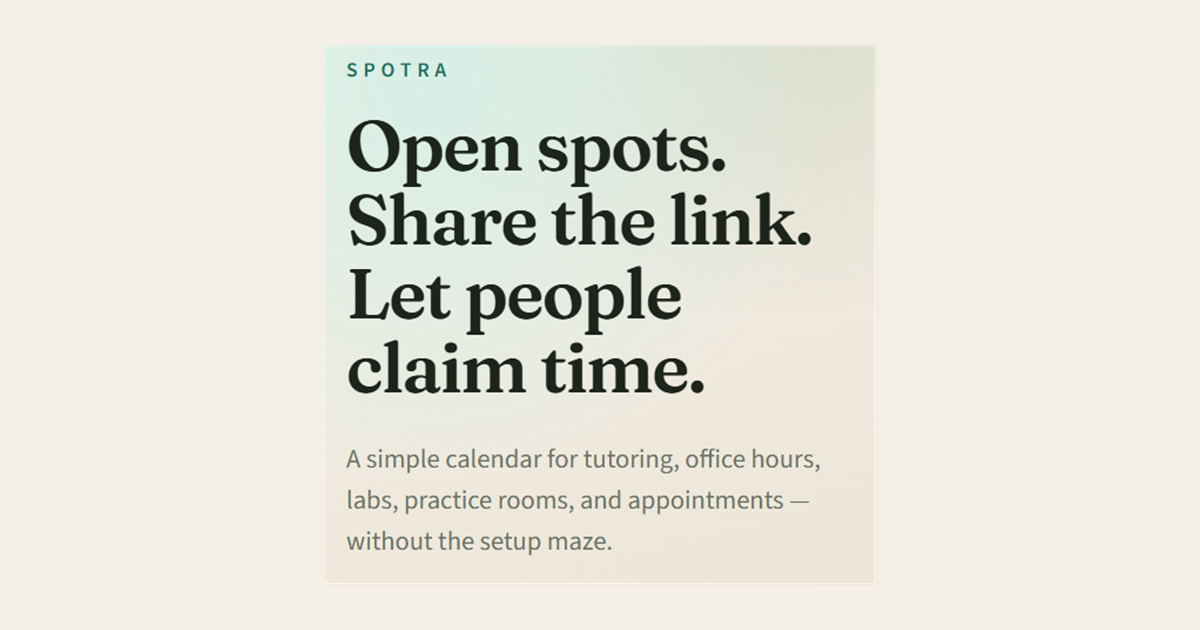
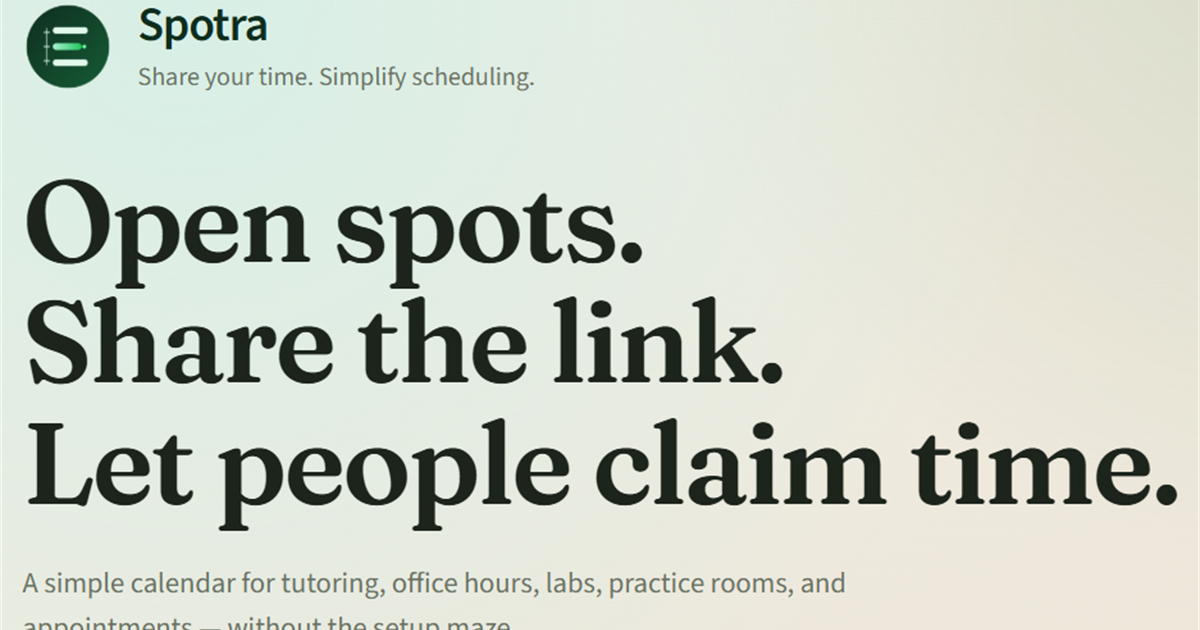
Add admin role changes and refresh link preview art.
Let admins promote or demote members with a last-admin guard, and replace the padded OG image with a properly sized landing preview.

diff --git a/features/members/members-table.tsx b/features/members/members-table.tsx
@@ -5,9 +5,9 @@ import { format } from "date-fns";
 import { toast } from "sonner";
 import { Avatar, AvatarFallback, AvatarImage } from "@/components/ui/avatar";
 import { Button } from "@/components/ui/button";
-import { removeMember } from "@/features/members/actions";
+import { removeMember, setMemberRole } from "@/features/members/actions";
 import { useMembers } from "@/hooks/use-workspace-data";
-import type { Account, WorkspaceMember } from "@/types";
+import type { Account, WorkspaceMember, WorkspaceRole } from "@/types";
 
 export function MembersTable({
   workspaceId,
@@ -24,6 +24,8 @@ export function MembersTable({
     return <p className="text-[var(--muted)]">Loading members…</p>;
   }
 
+  const adminCount = members.filter((m) => m.role === "admin").length;
+
   async function onRemove(member: WorkspaceMember & { account: Account }) {
     const result = await removeMember({
       workspaceId,
@@ -37,10 +39,90 @@ export function MembersTable({
     refetch();
   }
 
+  async function onSetRole(
+    member: WorkspaceMember & { account: Account },
+    role: WorkspaceRole,
+  ) {
+    const result = await setMemberRole({
+      workspaceId,
+      accountId: member.account_id,
+      role,
+    });
+    if (!result.ok) {
+      toast.error(result.error);
+      return;
+    }
+    toast.success(
+      role === "admin" ? "Member is now an admin" : "Member is now a participant",
+    );
+    refetch();
+  }
+
   function canRemove(member: WorkspaceMember) {
-    // Admins manage participants (and other admins). Self-removal is via
-    // Leave on /workspaces or Delete workspace — never Remove on this page.
+    // Self-removal is via Leave on /workspaces or Delete workspace.
     return member.account_id !== currentAccountId;
+  }
+
+  function canPromote(member: WorkspaceMember) {
+    return member.role === "participant";
+  }
+
+  function canDemote(member: WorkspaceMember) {
+    // Allow demoting other admins, and yourself only when another admin exists.
+    if (member.role !== "admin") return false;
+    if (member.account_id === currentAccountId) return adminCount > 1;
+    return true;
+  }
+
+  function ActionButtons({
+    member,
+    stretch,
+  }: {
+    member: WorkspaceMember & { account: Account };
+    stretch?: boolean;
+  }) {
+    const flex = stretch ? "flex-1" : undefined;
+    return (
+      <>
+        <Button size="sm" variant="secondary" asChild className={flex}>
+          <Link
+            href={`/workspace/${workspaceSlug}/users/${member.account_id}/history`}
+          >
+            History
+          </Link>
+        </Button>
+        {canPromote(member) && (
+          <Button
+            size="sm"
+            variant="outline"
+            className={flex}
+            onClick={() => onSetRole(member, "admin")}
+          >
+            Make admin
+          </Button>
+        )}
+        {canDemote(member) && (
+          <Button
+            size="sm"
+            variant="outline"
+            className={flex}
+            onClick={() => onSetRole(member, "participant")}
+          >
+            Make participant
+          </Button>
+        )}
+        {canRemove(member) && (
+          <Button
+            size="sm"
+            variant="outline"
+            className={flex}
+            onClick={() => onRemove(member)}
+          >
+            Remove
+          </Button>
+        )}
+      </>
+    );
   }
 
   return (
@@ -62,6 +144,7 @@ export function MembersTable({
               <div className="min-w-0 flex-1">
                 <p className="truncate font-medium">
                   {member.account.display_name}
+                  {member.account_id === currentAccountId ? " (you)" : ""}
                 </p>
                 <p className="truncate text-xs text-[var(--muted)]">
                   {member.account.email}
@@ -73,23 +156,7 @@ export function MembersTable({
               </div>
             </div>
             <div className="mt-4 flex flex-wrap gap-2">
-              <Button size="sm" variant="secondary" asChild className="flex-1">
-                <Link
-                  href={`/workspace/${workspaceSlug}/users/${member.account_id}/history`}
-                >
-                  History
-                </Link>
-              </Button>
-              {canRemove(member) && (
-                <Button
-                  size="sm"
-                  variant="outline"
-                  className="flex-1"
-                  onClick={() => onRemove(member)}
-                >
-                  Remove
-                </Button>
-              )}
+              <ActionButtons member={member} stretch />
             </div>
           </li>
         ))}
@@ -125,6 +192,7 @@ export function MembersTable({
                     <span>
                       <span className="block font-medium">
                         {member.account.display_name}
+                        {member.account_id === currentAccountId ? " (you)" : ""}
                       </span>
                       <span className="block text-xs text-[var(--muted)]">
                         {member.account.email}
@@ -138,22 +206,7 @@ export function MembersTable({
                 </td>
                 <td className="px-4 py-3">
                   <div className="flex flex-wrap justify-end gap-2">
-                    <Button size="sm" variant="secondary" asChild>
-                      <Link
-                        href={`/workspace/${workspaceSlug}/users/${member.account_id}/history`}
-                      >
-                        History
-                      </Link>
-                    </Button>
-                    {canRemove(member) && (
-                      <Button
-                        size="sm"
-                        variant="outline"
-                        onClick={() => onRemove(member)}
-                      >
-                        Remove
-                      </Button>
-                    )}
+                    <ActionButtons member={member} />
                   </div>
                 </td>
               </tr>

diff --git a/features/members/actions.ts b/features/members/actions.ts
@@ -7,6 +7,7 @@ import type {
   MemberEvent,
   MemberHistoryItem,
   WorkspaceMember,
+  WorkspaceRole,
 } from "@/types";
 
 async function requireAdmin(workspaceId: string) {
@@ -195,6 +196,59 @@ export async function getMemberHistory(input: {
   );
 
   return { ok: true, data: items };
+}
+
+export async function setMemberRole(input: {
+  workspaceId: string;
+  accountId: string;
+  role: WorkspaceRole;
+}): Promise<ActionResult> {
+  const admin = await requireAdmin(input.workspaceId);
+  if (!admin.ok) return { ok: false, error: admin.error };
+
+  if (input.role !== "admin" && input.role !== "participant") {
+    return { ok: false, error: "Invalid role." };
+  }
+
+  const { data: target, error: targetError } = await admin.supabase
+    .from("workspace_members")
+    .select("role")
+    .eq("workspace_id", input.workspaceId)
+    .eq("account_id", input.accountId)
+    .maybeSingle();
+
+  if (targetError) return { ok: false, error: targetError.message };
+  if (!target) return { ok: false, error: "Member not found." };
+
+  if (target.role === input.role) {
+    return { ok: true, data: undefined };
+  }
+
+  // Don't demote the last admin (including demoting yourself).
+  if (target.role === "admin" && input.role === "participant") {
+    const { count } = await admin.supabase
+      .from("workspace_members")
+      .select("*", { count: "exact", head: true })
+      .eq("workspace_id", input.workspaceId)
+      .eq("role", "admin");
+
+    if ((count ?? 0) <= 1) {
+      return {
+        ok: false,
+        error:
+          "You can't demote the last admin. Promote someone else first, or delete the workspace.",
+      };
+    }
+  }
+
+  const { error } = await admin.supabase
+    .from("workspace_members")
+    .update({ role: input.role })
+    .eq("workspace_id", input.workspaceId)
+    .eq("account_id", input.accountId);
+
+  if (error) return { ok: false, error: error.message };
+  return { ok: true, data: undefined };
 }
 
 export async function removeMember(input: {
